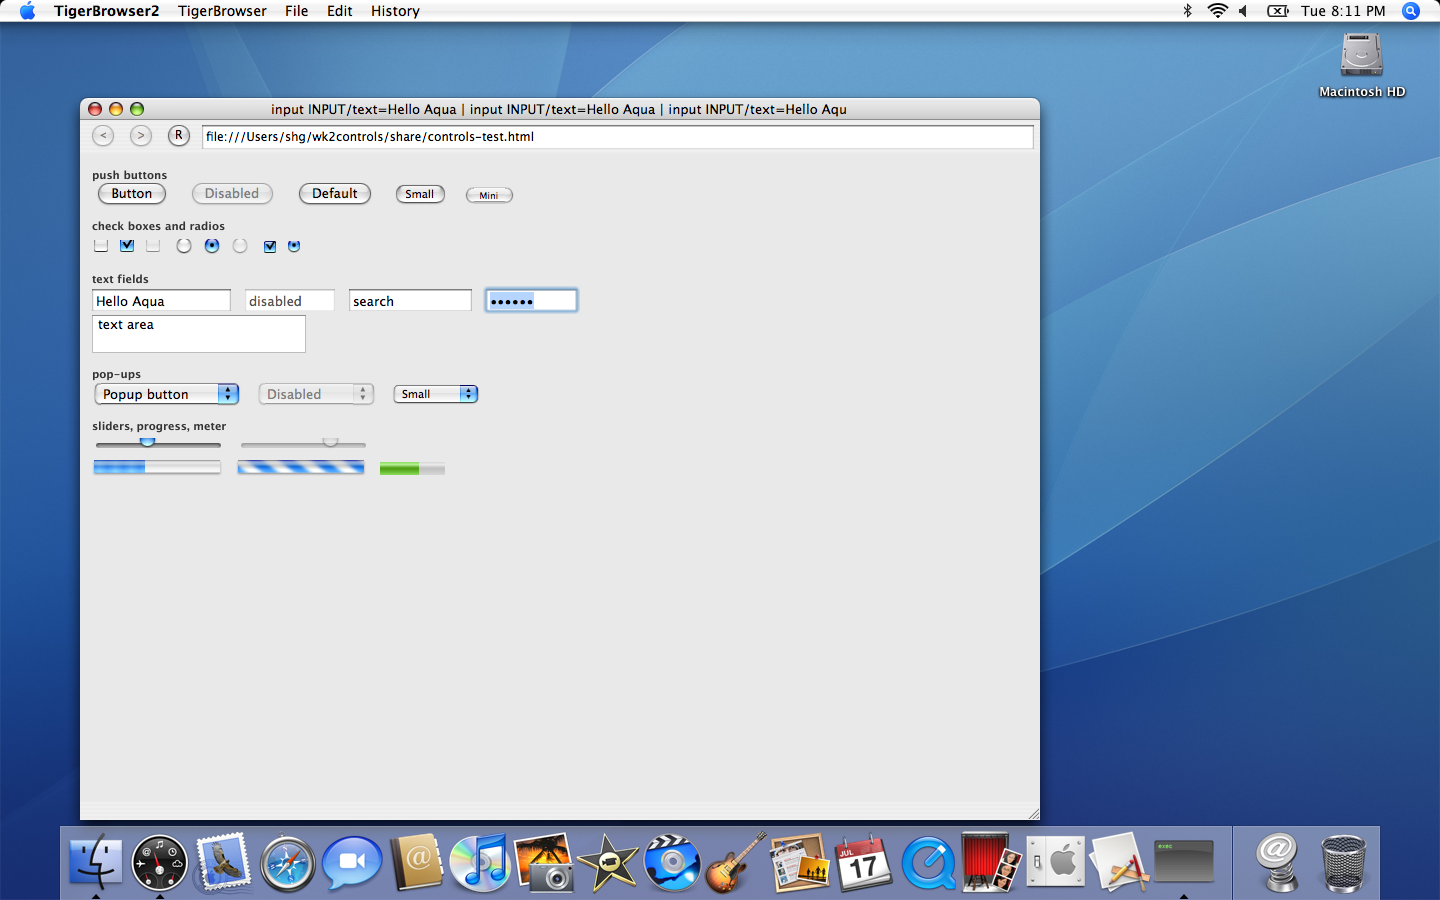
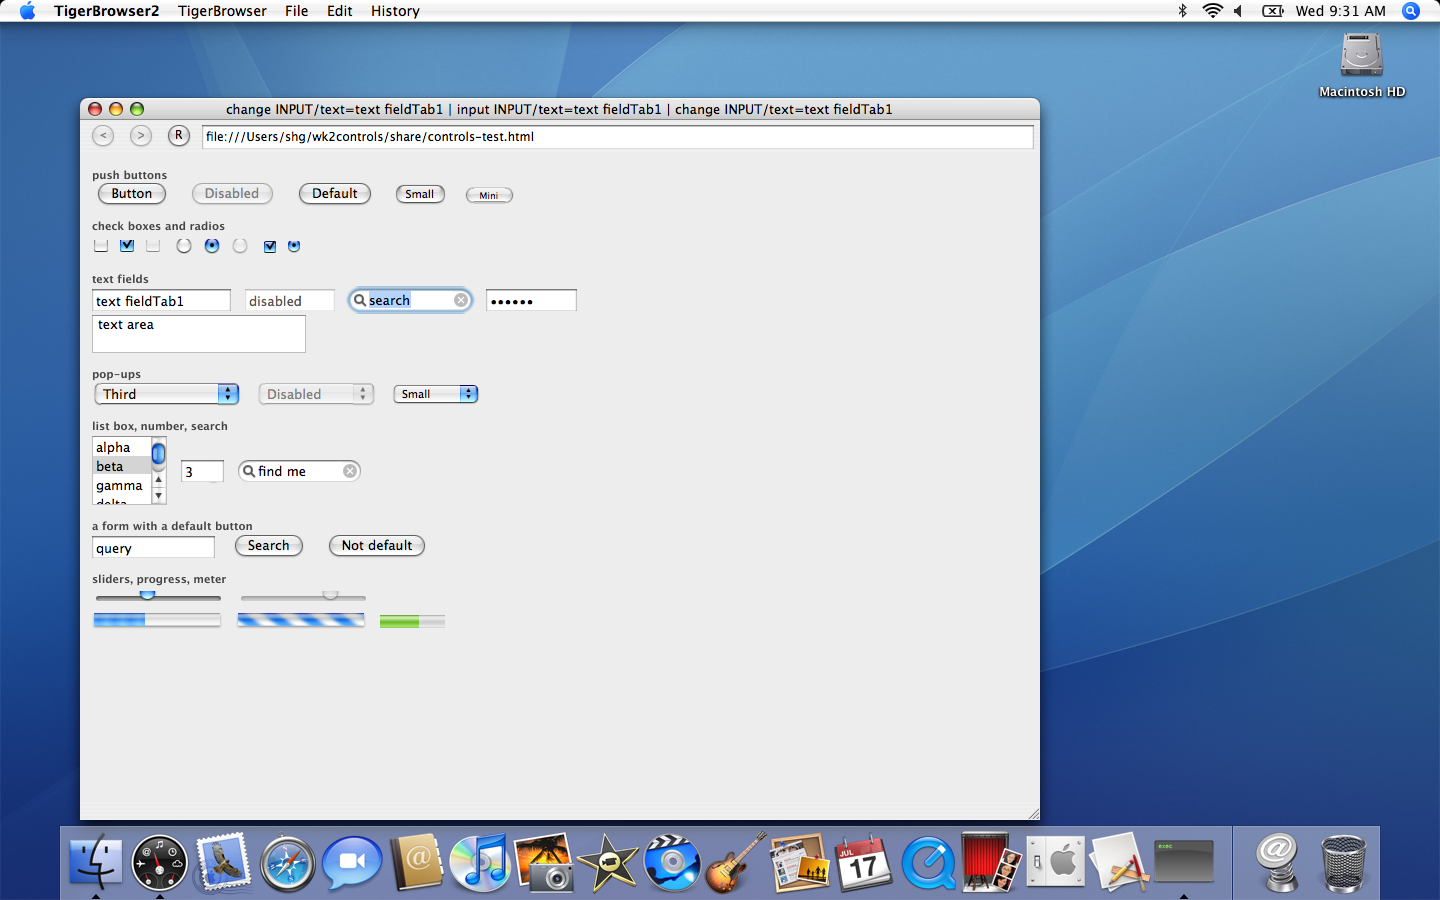
NOTES + spike: controls verified on the box -- select pick, Tab, list box, stepper, default button
Claude-Session: https://claude.ai/code/session_017safVKmrUo8jgodKKq9FPD

diff --git a/spike/wk2web/controls-test.html b/spike/wk2web/controls-test.html
@@ -38,6 +38,7 @@
   <input type="text" value="disabled" size="10" disabled>
   <input type="search" value="search" size="12">
   <input type="password" value="secret" size="10">
+  <input type="text" placeholder="Placeholder" size="12">
 </div>
 <div class="row">
   <textarea rows="2" cols="26">text area</textarea>

diff --git a/NOTES.md b/NOTES.md
@@ -5474,3 +5474,39 @@ Verge alone, all 90 s scrolled: release-2-era binaries 2 asserts in 7 runs (plus
 session and the media track's scroll2 log); fixed build 0 in 4. No TIGER-CRASH-SIGNAL or
 TIGER-ABORT anywhere; TIGER-EXIT 2 per run is the normal teardown pair. Every run's web
 process was alive at 87 s.
+
+## 2026-09-23 — controls: list box, stepper, search field, meter; real-cursor select; Tab; default button (tiger-faithful)
+
+All verified on the box in fast mode through TIGER_SCRIPT, the page's own `document.title` event
+log as the assertion (spike/wk2web/step-*.png, controls-fast-release3.png):
+
+- `<select>` pick with the hardware cursor (`realclick`, `realkey`): a real Aqua menu opens and
+  down, down, Return gives `change SELECT/select-one=2:Third`. Keyboard path too: Tab into the
+  select through WebCore, down, Return gives `select-one=1:Second`.
+- Tab and Shift-Tab: text field -> search (the disabled field skipped by WebCore) -> password,
+  and back. WebCore's FocusController owns the order; a Focused flag arriving from the page
+  makes the live control first responder.
+- `<select multiple>` as NSTableView: click gamma gives `change SELECT/select-multiple=2:gamma`.
+- `<input type=number>`'s spin button as NSStepper: up, down, down gives `number=2`.
+- The form's default submit button is Aqua's pulsing blue button while the form has focus, and
+  Return in its text field submits (`submit querys`).
+- NSSearchField (magnifier + cancel X), NSLevelIndicator for `<meter>`, cell placeholder text.
+
+Traps worth keeping:
+
+- A click into a text field gives NO delegate callback until the first edit. Hosted text
+  controls are subclasses whose -becomeFirstResponder reports Focus; without it the page never
+  knew which field had the focus.
+- A focused NSTextField is not the first responder -- its field editor is. The Focused
+  round trip must not makeFirstResponder: it again (that selects all under the first keystroke).
+- A text field with a target/action takes Return for itself, and the field editor takes it even
+  without one; the host presses the window's default button cell on insertNewline:.
+- Harness: a posted NSEvent never opens an NSPopUpButton menu (it tracks the real cursor); a
+  350 ms real press is press-drag-release on the current item; a 50 ms click leaves the menu
+  open. Shift-Tab must be U+0019. The step timer must run in the common modes.
+- TIGER_WIDGET_LOG=1 prints every hosted widget per change -- it is how the invisible stepper
+  (hosted, but under its own field) was found.
+
+Not done: multi-select of more than one row reaches the page as a single index; implicit
+submission of a form with no submit button; a non-text hosted control does not yet hand its
+Tab to WebCore; faithful mode not re-verified.
